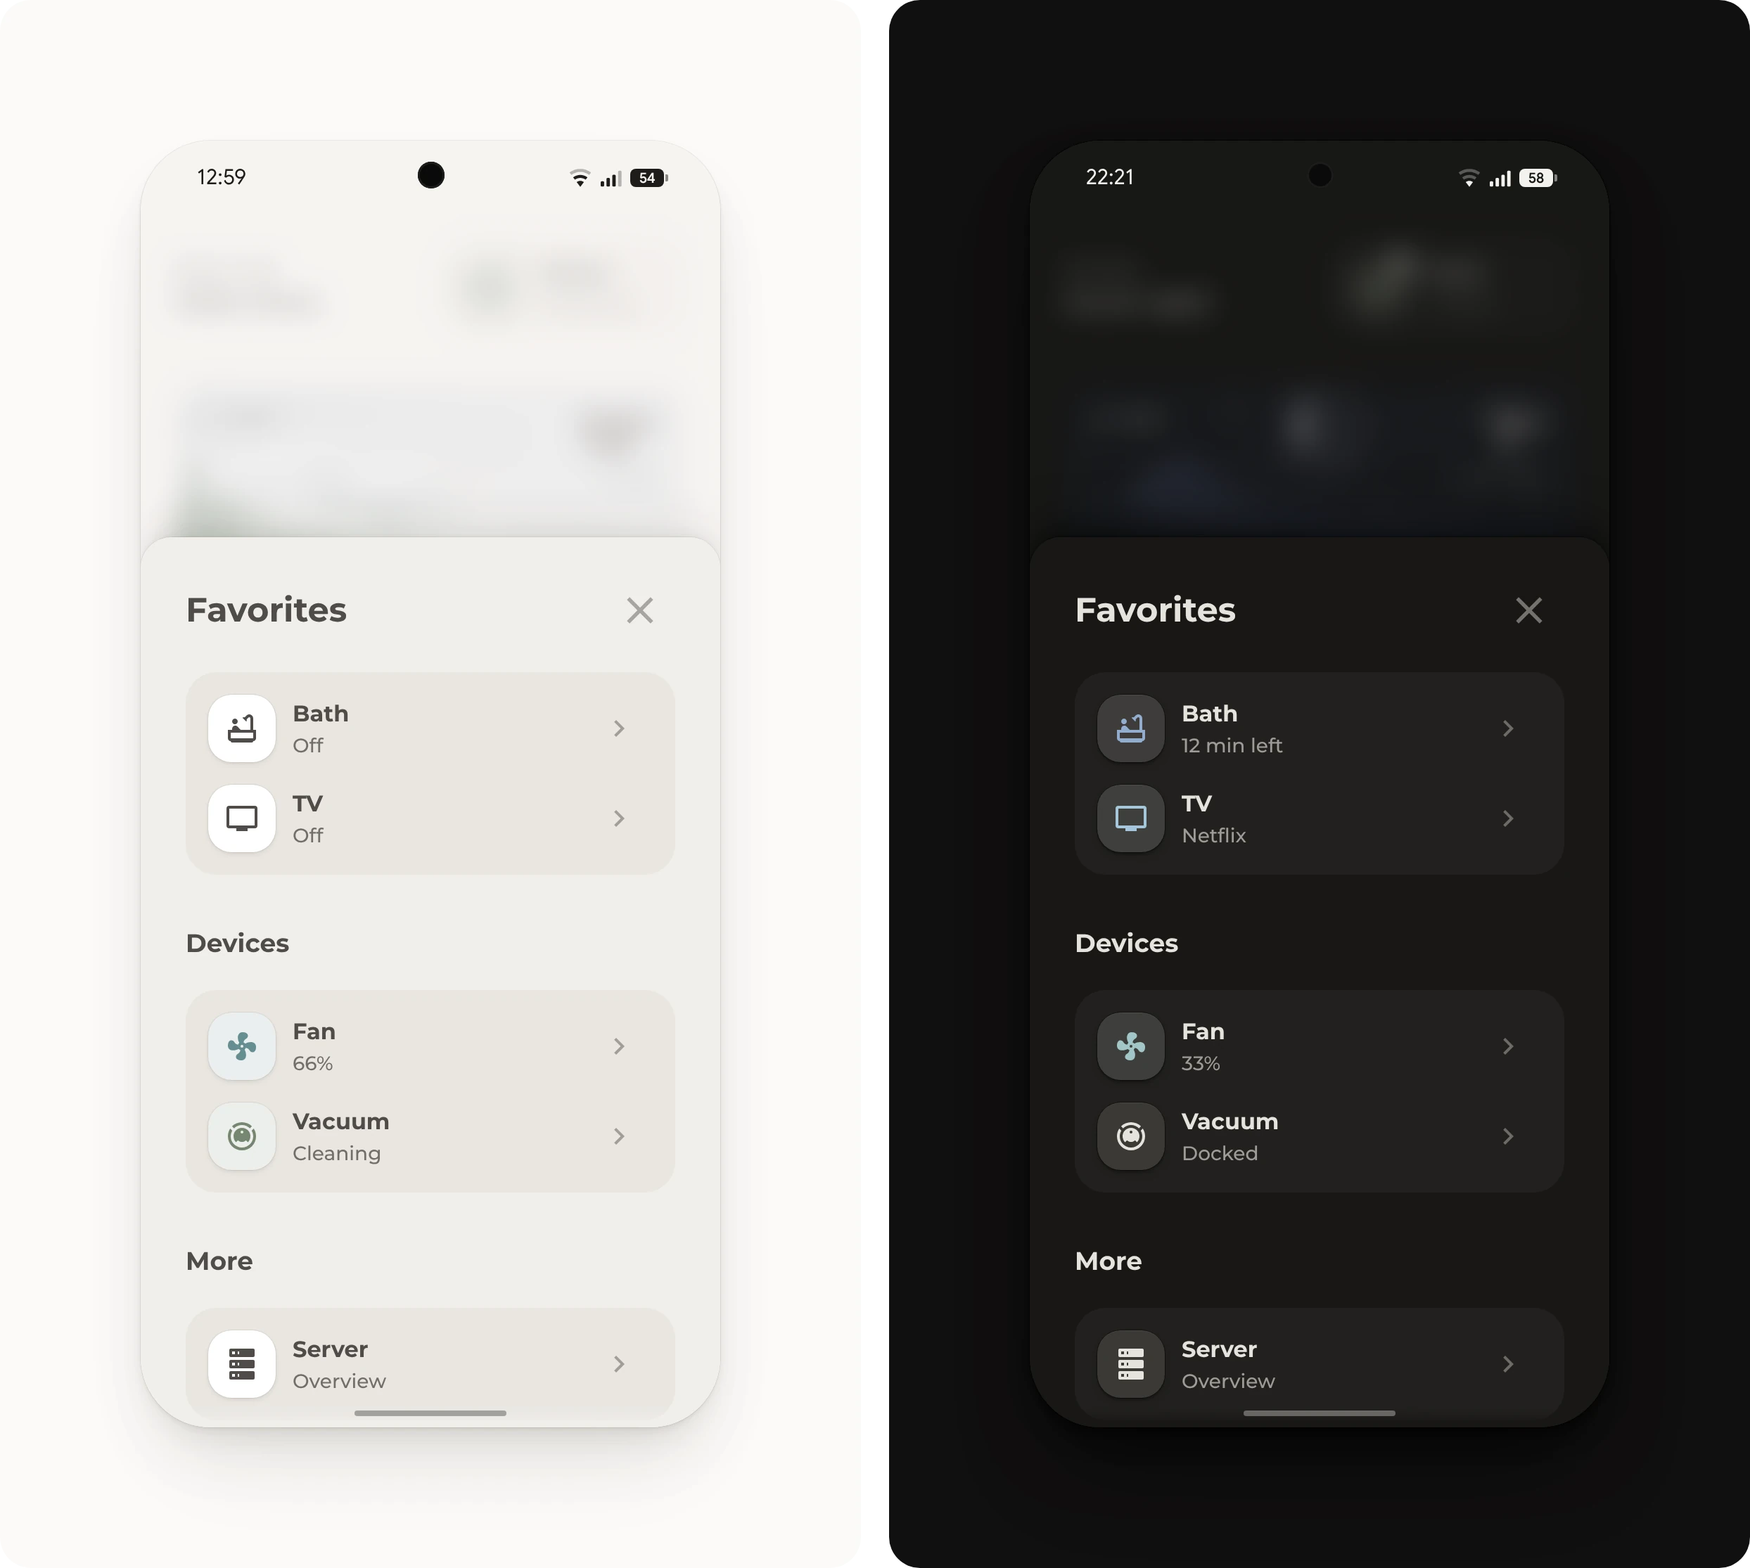
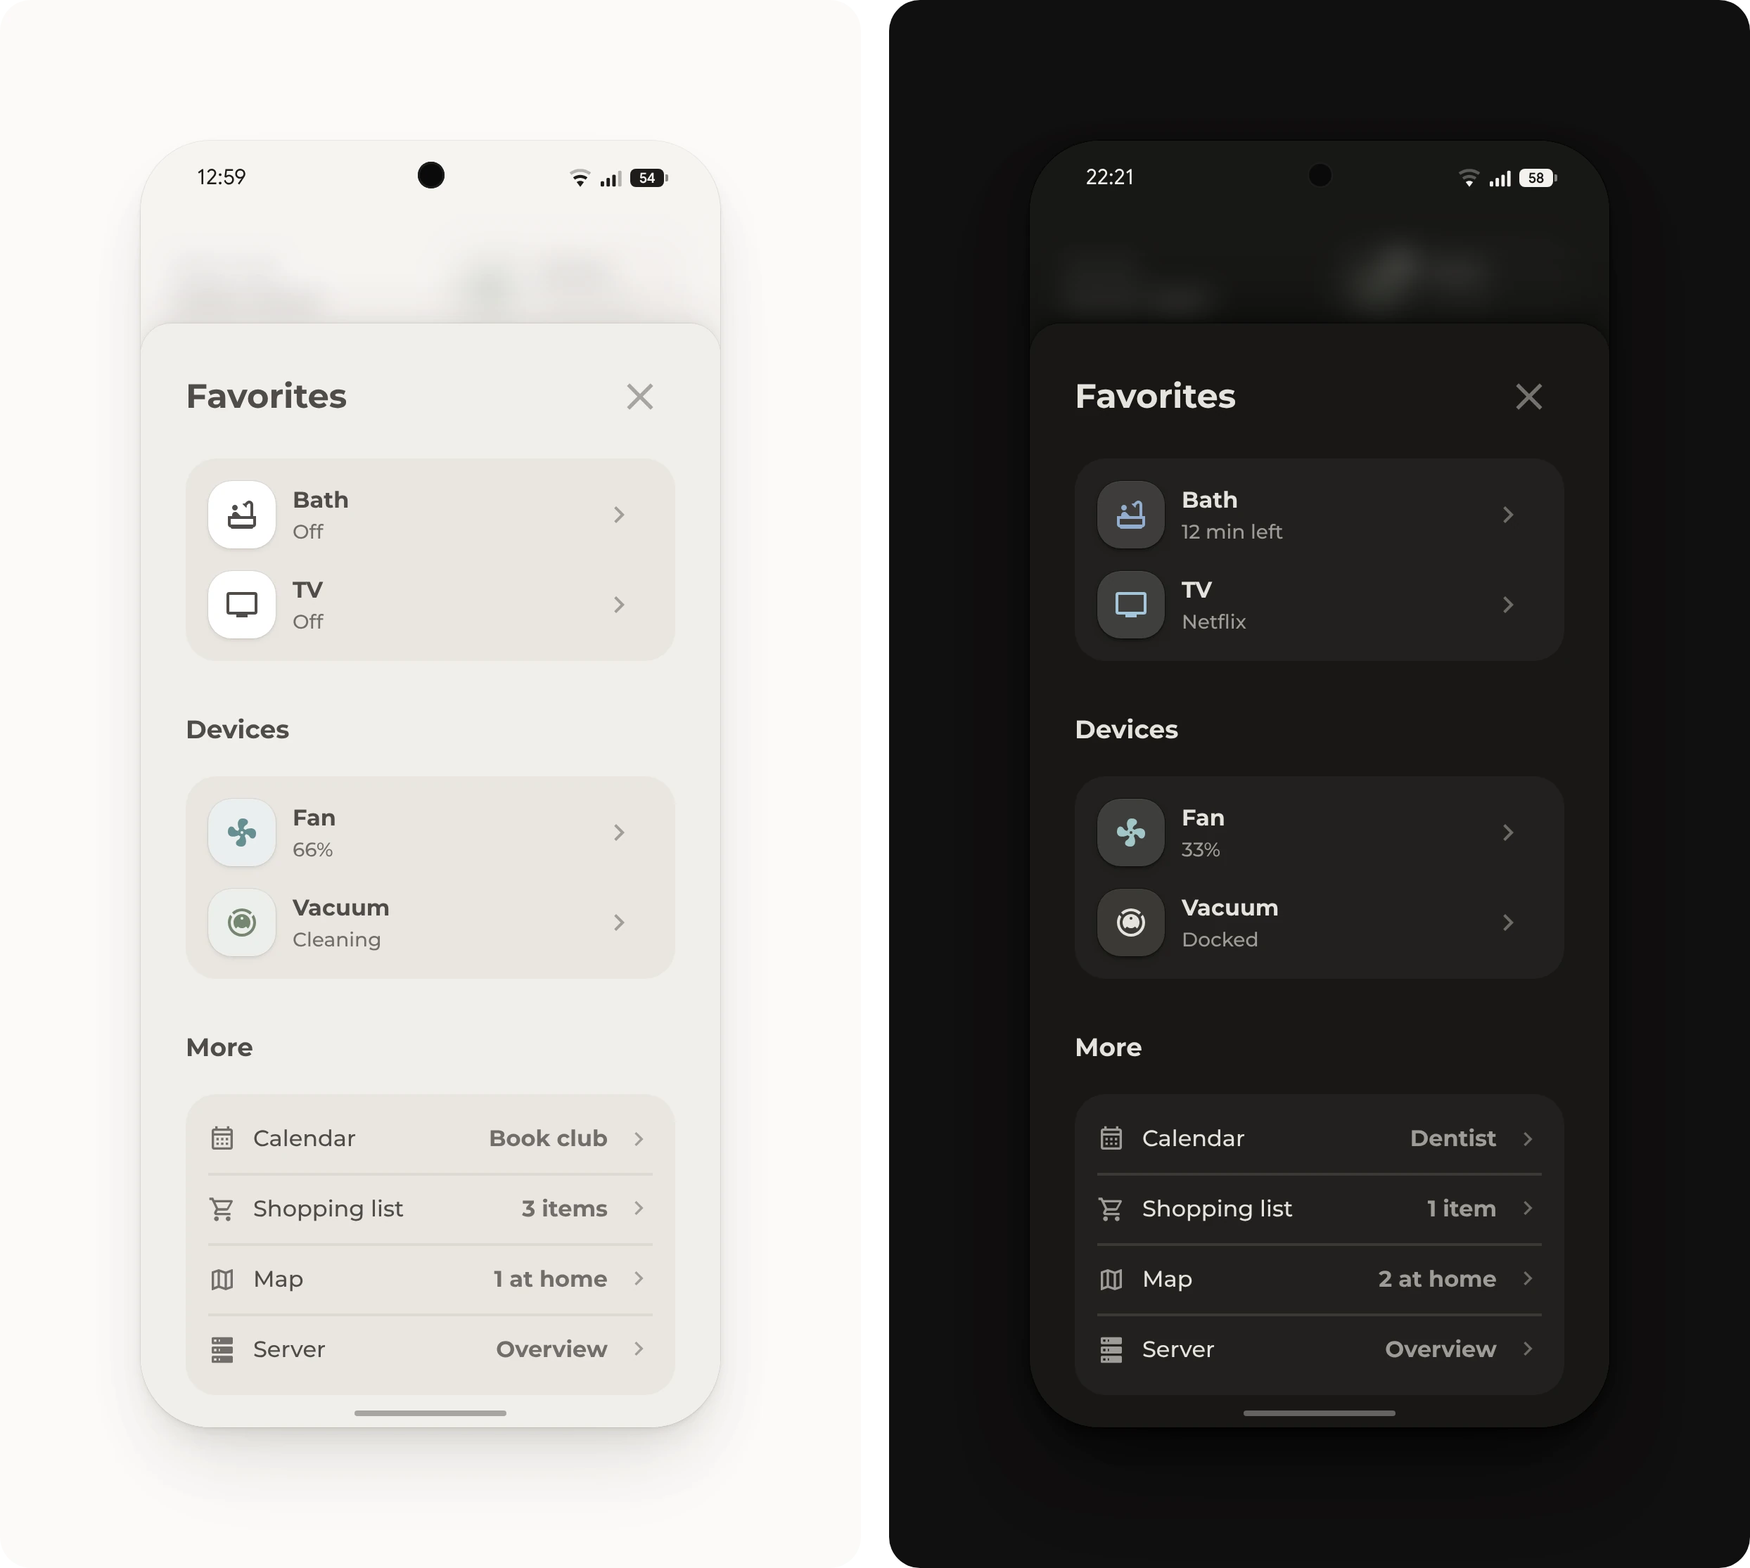
The lights pop-up's power key follows the time of day, the favorites list ends with slim rows, the fan image is cut above its pop-up, and the menu says why it exists

diff --git a/.github/MAINTAINING.md b/.github/MAINTAINING.md
@@ -42,7 +42,7 @@ This rule comes first. Origami is for every home, and every home has other entit
 
 The README is the main documentation, and in the end it is what people get from Origami, so its standard is the highest in the repository. Most readers are beginners who scroll through it and pick the parts they like. It holds only what they need to get a part working, in the simplest form that works: a short step instead of an explanation, and a list instead of a paragraph. It has to feel light, explain each thing once and read smoothly: honest and reduced to what's needed, never like marketing or a manual. Text that doesn't meet this standard doesn't go in.
 
-- It's light. The main README is a gallery: each part is its name, its image and one short line about it, which ends with a **More** link to the part's folder. The home view is one image of the page on a phone, with its parts as a list below it, where each part's name is the link to its folder, and the menu and every pop-up get an image of their own. The name itself is plain text. The line says what the part is for, the way someone would describe it, not what its code shows. It leaves out layout details and the cards a part needs, because the part's README has them. The line isn't a copy of the first sentence in the part's README. The README in that folder has the part's steps, next to its files. Anything else in the main README, such as troubleshooting, sits in one folded `<details>` block, so people open what they want on purpose.
+- It's light. The main README is a gallery: each part is its name, its image and one short line about it, which ends with a **More** link to the part's folder. The home view is one image of the page on a phone, with its parts as a list below it, where each part's name is the link to its folder, and the menu and every pop-up get an image of their own. The name itself is plain text. The line says what the part is for, the way someone would describe it, not what its code shows. It leaves out layout details and the cards a part needs, because the part's README has them, unless a card is the reason the part exists, as for the menu. The line isn't a copy of the first sentence in the part's README. The README in that folder has the part's steps, next to its files. Anything else in the main README, such as troubleshooting, sits in one folded `<details>` block, so people open what they want on purpose.
 - Origami's idea is said once, in the intro of the main README, which may sound personal: it tells where Origami comes from. The parts, the other sections and the module reference don't repeat it. The intro follows the maintainer's draft and changes only when the maintainer asks.
 - Badges have a label in the dark theme's background color, `#181715`, and a value in the light theme's, `#F6F4F1`, so they never compete with the images. The Origami Suite badge with the Origami logo, ◪, marks every repository of the suite, such as Origami Weather, and links to all of them.
 - A step never assumes a fresh install. Many people already have HACS, Bubble Card or a themes folder, so a step says what to check or update instead, and Bubble Card and the community cards get credit where they come up.
@@ -150,7 +150,7 @@ All text is written for people: short, plain English that sounds like a person w
 ## Images
 
 - All images follow one standard, so the gallery looks like one piece. Each image shows a part's light and dark mode side by side, with rounded corners and a transparent gap between them. The two halves show different things that are useful to see, such as an open mini pop-up in dark, another moment of the example home or other devices, never the same view twice. A card stands on its own, as in 2.0. The home view, the menu and each pop-up stand on a phone that faces the camera, always at a real phone's size, so the home view shows what fits on its screen, on a plain background a little lighter than the light page or a little darker than the dark one. The pictures in the demos, such as covers, are photos under CC0 or in the public domain: forests by day and the sea by night. Never a diagonal division.
-- The images show each part at its best and show off what it can do, because they are what people see first, such as birds over a weather card by day and snow falling at night. Lists are full, such as six speakers or six rooms, added as the part's README says, and every row of a table has all its cells. A phone is whole, except for a part at one edge of the screen, such as the menu at the top or the lights pop-up at the bottom: there the image ends a little past the part, and the phone meets the image's edge without a margin. A menu or a mini pop-up stands where it opens on a real phone, and each image's status bar has its own time, battery and signal, as on a real phone during a day. The weather on the home view is gray by day, so the weather card adds little color to the page, and `seed` keeps the weather card's sky the same in every shot. A sunny sky without a cloud is a weather card's plainest look, so the weather images show clouds, rain, snow or the night, and in each mode the three cards show three kinds of weather.
+- The images show each part at its best and show off what it can do, because they are what people see first, such as birds over a weather card by day and snow falling at night. Lists are full, such as six speakers or six rooms, added as the part's README says, and every row of a table has all its cells. A phone is whole, except for a part at one edge of the screen, such as the menu at the top or the lights and fan pop-ups at the bottom: there the image ends a little past the part, and the phone meets the image's edge without a margin. A menu or a mini pop-up stands where it opens on a real phone, and each image's status bar has its own time, battery and signal, as on a real phone during a day. The weather on the home view is gray by day, so the weather card adds little color to the page, and `seed` keeps the weather card's sky the same in every shot. A sunny sky without a cloud is a weather card's plainest look, so the weather images show clouds, rain, snow or the night, and in each mode the three cards show three kinds of weather.
 - An image never shows the same thing twice, such as a cleaning vacuum in the notifications and in the favorites. The favorites are quick access first, so only the first favorite is on and the others wait for a tap. Values stay short and even, such as 20° instead of 19.5° for a thermostat and Playing instead of Bedroom as a state, and no name is cut off. Each image's scenario picks its favorites and states for this, and a change to a part keeps them.
 - The hero shows the maintainer's own dashboard, because it shows best how Origami looks in daily use. It gets more care than any other image.
 - Screenshots show the real theme, font, modules and cards. The hero comes from a real Home Assistant. `python3 .github/bench/images/make.py` makes the other images with the bench, from the example home's states in `.github/bench/images`, and frames them.

diff --git a/dashboard/lights/README.md b/dashboard/lights/README.md
@@ -2,7 +2,7 @@
 
 <img width="800" alt="The lights pop-up with how many lamps are on, the slider for all lamps and the scenes with their colors and brightness, at midday and late in the evening, in light and dark mode" src="https://raw.githubusercontent.com/hazymorning/origami/next/images/v3/lights-pop-up.webp">
 
-All lamps of a room at once or each one on its own, and the room's scenes.
+The home's main light control. Its power key turns on the scene for the time of day while all lamps are off, and turns off every light in the home while one is on. Below it, all lamps at once or each one on its own, and the scenes.
 
 ## Requirements
 
@@ -17,7 +17,7 @@ All lamps of a room at once or each one on its own, and the room's scenes.
 
 ## Optional
 
-- **Scenes.** For a room with [scenes](https://www.home-assistant.io/docs/scene/): a box for each scene with its colors, its name and its brightness, starting with the scene for the time of day. While a lamp is on, a small dot before its brightness marks the scene turned on last. Change the buttons in the group **Scenes** to the room's scenes, and list the same scenes under `active`. Without scenes, delete the card with the scenes.
+- **Scenes.** For a room with [scenes](https://www.home-assistant.io/docs/scene/): a box for each scene with its colors, its name and its brightness, starting with the scene for the time of day. While a lamp is on, a small dot before its brightness marks the scene turned on last. Change the buttons in the group **Scenes** to the room's scenes, and list the same scenes under `active` and in the power keys. Without scenes, delete the card with the scenes and every power key but the first, and give that one `tap_action: action: toggle` instead of its `hidden` and its tap action.
 
 > [!TIP]
 > A scene's `field` is a gradient of its colors and its `label` its brightness, such as `45 %`, written as the slider writes it. `start` names a `css_class` for each time of day, so the row begins with the scene that fits. A scene without a `field` shows its icon.
@@ -28,4 +28,4 @@ All lamps of a room at once or each one on its own, and the room's scenes.
 | --- | --- |
 | `light.living_room` | The light group: how many lamps are on and since when, the power button and the slider for all lamps |
 | `light.living_room_floor_lamp`, `light.living_room_string_lights`, `light.living_room_tv`, `light.living_room_table_lamp`, `light.living_room_ceiling` | A row for each lamp |
-| `scene.living_room_night`, `scene.living_room_morning`, `scene.living_room_dinner`, `scene.living_room_evening`, `scene.living_room_movie`, `scene.living_room_late` | The scene buttons |
+| `scene.living_room_night`, `scene.living_room_morning`, `scene.living_room_dinner`, `scene.living_room_evening`, `scene.living_room_movie`, `scene.living_room_late` | The scene buttons, and the scene for the time of day that the power key turns on |

diff --git a/README.md b/README.md
@@ -105,7 +105,7 @@ A pop-up stays hidden until a button opens it with **Navigate** to its hash, suc
 
 The start page, from the greeting down to the navigation bar:
 
-- **[Greeting and notifications](dashboard/greeting/).** Greeting and info on the left, and a notification island on the right for everything happening now.
+- **[Greeting and notifications](dashboard/greeting/).** Greeting and info on the left, and a notification island on the right.
 - **[Weather](dashboard/weather/).** The weather at a glance, as a little paper landscape or in one of two other looks.
 - **[Favorites](dashboard/favorites/).** Quick access to favorites, and to whatever is running right now.
 - **[Rooms](dashboard/rooms/).** How each room is doing, and the way into its pop-up.
@@ -116,7 +116,7 @@ The start page, from the greeting down to the navigation bar:
 
 <img width="800" alt="The menu sliding in from the top, in light and dark mode" src="https://raw.githubusercontent.com/hazymorning/origami/next/images/v3/menu.webp">
 
-Not really needed, but nice to have: a menu in place of Home Assistant's header, with the server's health and the tools for changing the dashboard. [More](dashboard/menu/)
+Truly hides Home Assistant's header and, if wanted, adds a menu that slides down with shortcuts for the admin. It uses the Origami Header card, because Home Assistant still has no proper way to hide its header. [More](dashboard/menu/)
 
 ## Pop-ups
 
@@ -130,7 +130,7 @@ Everything for one room in one place. [More](dashboard/room/)
 
 <img width="800" alt="The lights pop-up with the slider for all lamps and the scenes, at midday and late in the evening, in light and dark mode" src="https://raw.githubusercontent.com/hazymorning/origami/next/images/v3/lights-pop-up.webp">
 
-Every light in the home, from a scene for all of them down to a single lamp. [More](dashboard/lights/)
+The home's main light control: its power key turns on the scene for the time of day or turns off every light, and each lamp and scene is a tap away. [More](dashboard/lights/)
 
 ### Music
 
@@ -146,7 +146,7 @@ The TV's remote on the phone, with its apps one tap away. [More](dashboard/tv/)
 
 ### Fan
 
-<img width="800" alt="The fan pop-up, and with its timer open, in light and dark mode" src="https://raw.githubusercontent.com/hazymorning/origami/next/images/v3/fan-pop-up.webp">
+<img width="800" alt="The fan pop-up at medium speed, and at low speed with the Nature preset, oscillation and its timer running, in light and dark mode" src="https://raw.githubusercontent.com/hazymorning/origami/next/images/v3/fan-pop-up.webp">
 
 A fan's controls, with a timer that turns it off later. [More](dashboard/fan/)
 

diff --git a/CHANGELOG.md b/CHANGELOG.md
@@ -156,8 +156,9 @@ These changes are in the `next` branch and come with the next release.
 - The pop-ups no longer set `shadow_opacity`, because Popup gives every pop-up the theme's shadow.
 - The navbar follows the rules of the Bubble cards. A line along the bottom of the now playing card shows how far the track has played.
 - The favorites are tiles in one row that scrolls sideways, or in a grid for a larger screen. The README shows both.
-- The lights pop-up shows how many lamps are on and since when. Each scene shows its colors in a rounded square, with the theme's corners, and its brightness under its name, and a small dot before its brightness marks the active scene.
+- The lights pop-up shows how many lamps are on and since when. Each scene shows its colors in a rounded square, with the theme's corners, and its brightness under its name, and a small dot before its brightness marks the active scene. Its power key turns on the scene for the time of day while all lamps are off, and turns off every light in the home while one is on.
 - The weather part has three cards: a paper diorama with a picture for each kind of weather, which the home view shows, a house whose rooms light up and show their temperature, with the day's weather, low and high on a chip, and Origami Weather's Comparison layout in calm colors that follow the weather. The pictures load from the repository, so a home needs no files of its own.
+- The favorites list ends with slim rows for the calendar, the shopping list, the map and the server, each with a value at its end, such as the next event.
 - In the room pop-ups, the light card's arrow to the lamps stands beside its slider, as in the lights pop-up, and the bathroom has the same light card as the living room, with its two lamps and its scenes. Only the living room's lights header opens the lights pop-up. The bathroom's opens the light group's dialog, which lists each lamp.
 
 ### Bug fixes

diff --git a/dashboard/favorites-list/README.md b/dashboard/favorites-list/README.md
@@ -17,6 +17,7 @@ A list of favorites, like other pop-ups, devices or anything else worth a shortc
 ## Optional
 
 - **Other pop-ups.** The rows for the TV, the fan, the vacuum and the server open the [TV](../tv/README.md), [fan](../fan/README.md), [vacuum](../vacuum/README.md) and [server](../server/README.md) pop-ups. Without one of them, change that row's tap action.
+- **Calendar, shopping list and map.** For a home with a [calendar](https://www.home-assistant.io/integrations/calendar/), the [shopping list](https://www.home-assistant.io/integrations/shopping_list/) or people in Home Assistant. The rows under **More** open them, with the next event, the open items and how many people are home at their end. Without one of them, delete its row.
 
 ## Entities
 
@@ -28,3 +29,6 @@ All rows are examples from one home.
 | `media_player.living_room_tv` | The TV. While it's off, a tap turns it on, and then the row opens the TV pop-up. |
 | `fan.bedroom` | The fan and its speed |
 | `vacuum.robot` | The vacuum and its state |
+| `calendar.household` | The calendar and its next event |
+| `todo.shopping_list` | The shopping list and its open items |
+| `zone.home` | The map and how many people are home. It comes with Home Assistant. |

diff --git a/dashboard/menu/README.md b/dashboard/menu/README.md
@@ -2,10 +2,10 @@
 
 <img width="800" alt="The menu sliding in from the top, in light and dark mode" src="https://raw.githubusercontent.com/hazymorning/origami/next/images/v3/menu.webp">
 
-A menu in place of Home Assistant's header, with shortcuts and a small card for the server. Unlike other ways of hiding the header, it doesn't flash up while the page loads.
+Hides Home Assistant's header for good, without a flash while a dashboard loads, and adds a menu that slides down, if wanted, with shortcuts for the admin and a small card for the server.
 
 > [!NOTE]
-> Home Assistant still has no proper way to hide its header, and other ways let it show up for a moment each time a dashboard opens. The Origami Header card avoids that by hooking into the dashboard's own code, so it's a bit experimental, and a Home Assistant update can break it until the card is updated.
+> Home Assistant still has no proper way to hide its header. Kiosk mode and similar ways lay CSS over it, so the header flashes up each time a dashboard opens. The Origami Header card came out of years of frustration with that flash. It isn't the official way, but it works inside the dashboard itself, and no other way hides the header this cleanly.
 
 ## Requirements
 

diff --git a/dashboard/fan/README.md b/dashboard/fan/README.md
@@ -1,6 +1,6 @@
 # Fan pop-up
 
-<img width="800" alt="The fan pop-up, and with its timer open, in light and dark mode" src="https://raw.githubusercontent.com/hazymorning/origami/next/images/v3/fan-pop-up.webp">
+<img width="800" alt="The fan pop-up at medium speed, and at low speed with the Nature preset, oscillation and its timer running, in light and dark mode" src="https://raw.githubusercontent.com/hazymorning/origami/next/images/v3/fan-pop-up.webp">
 
 Speed, presets, oscillation and direction for one fan, and a timer that turns it off after 1, 3 or 5 hours.
 
